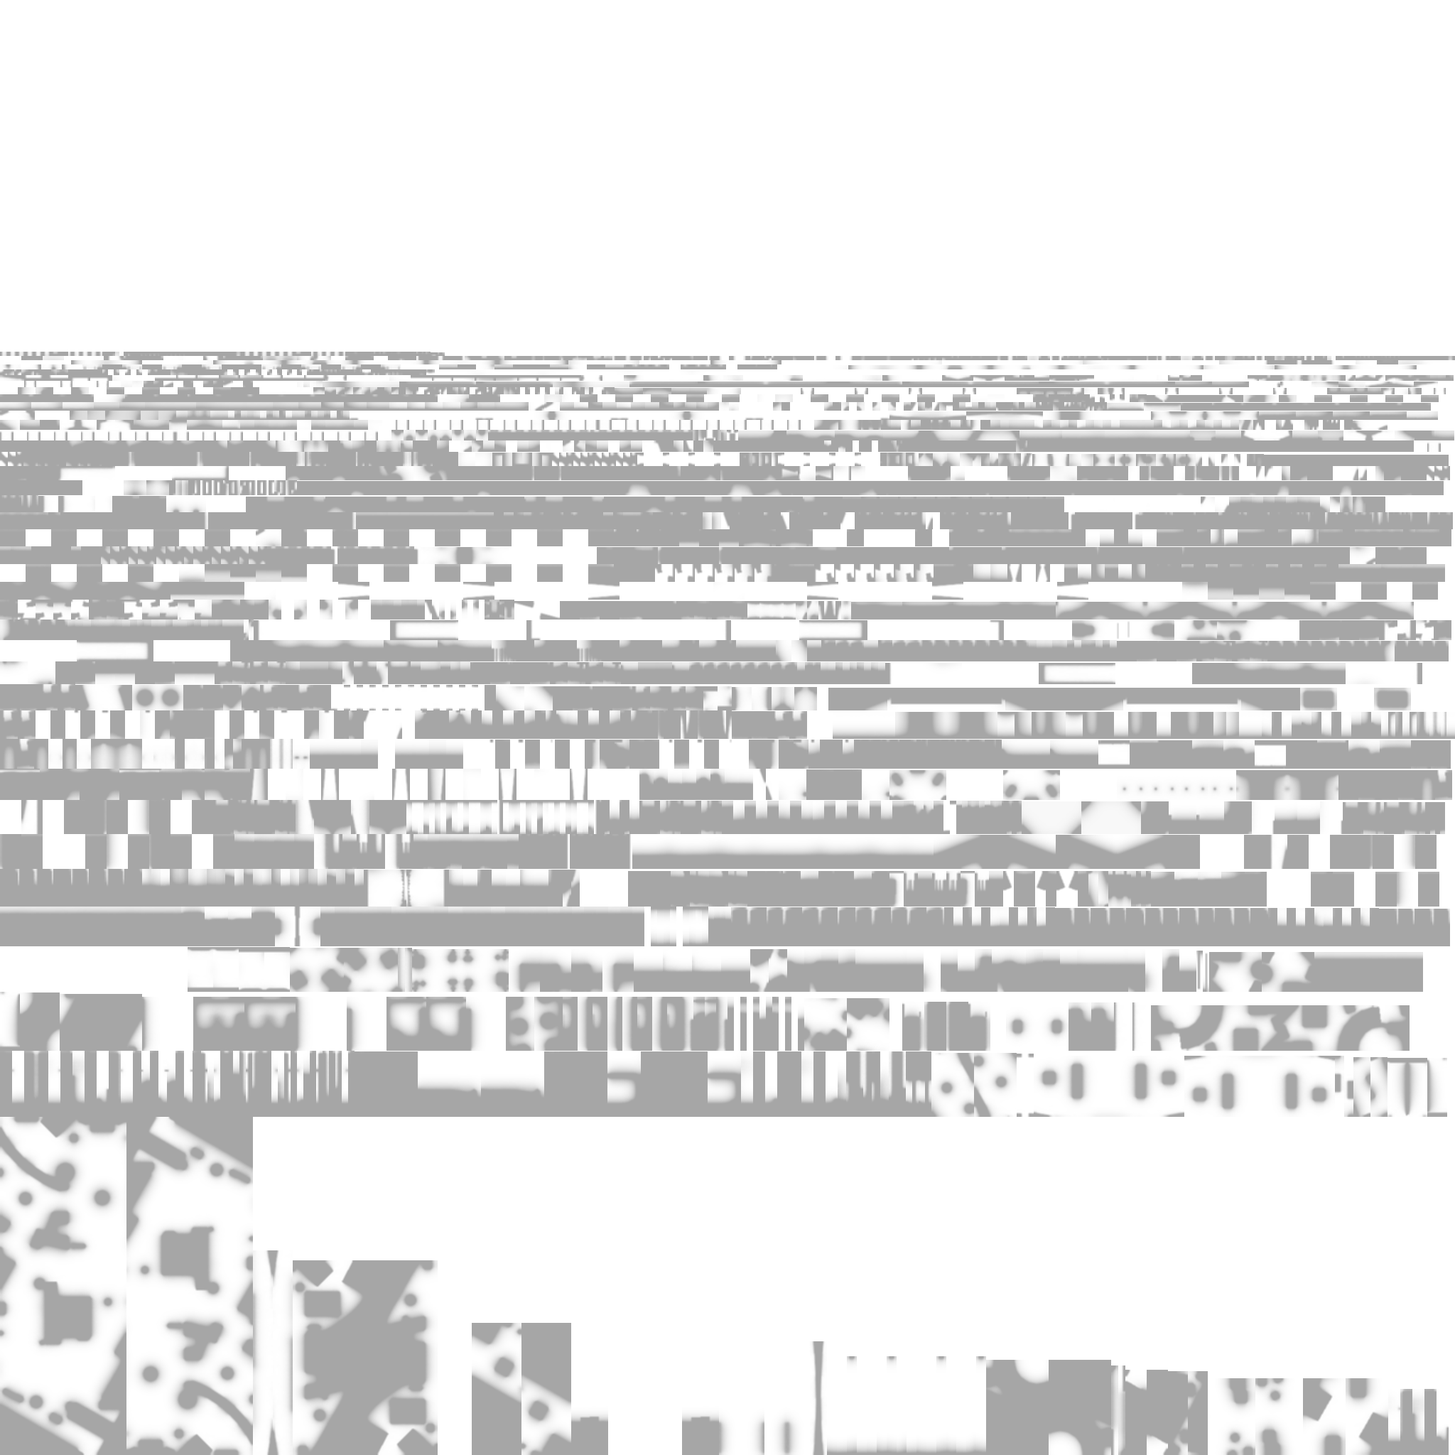
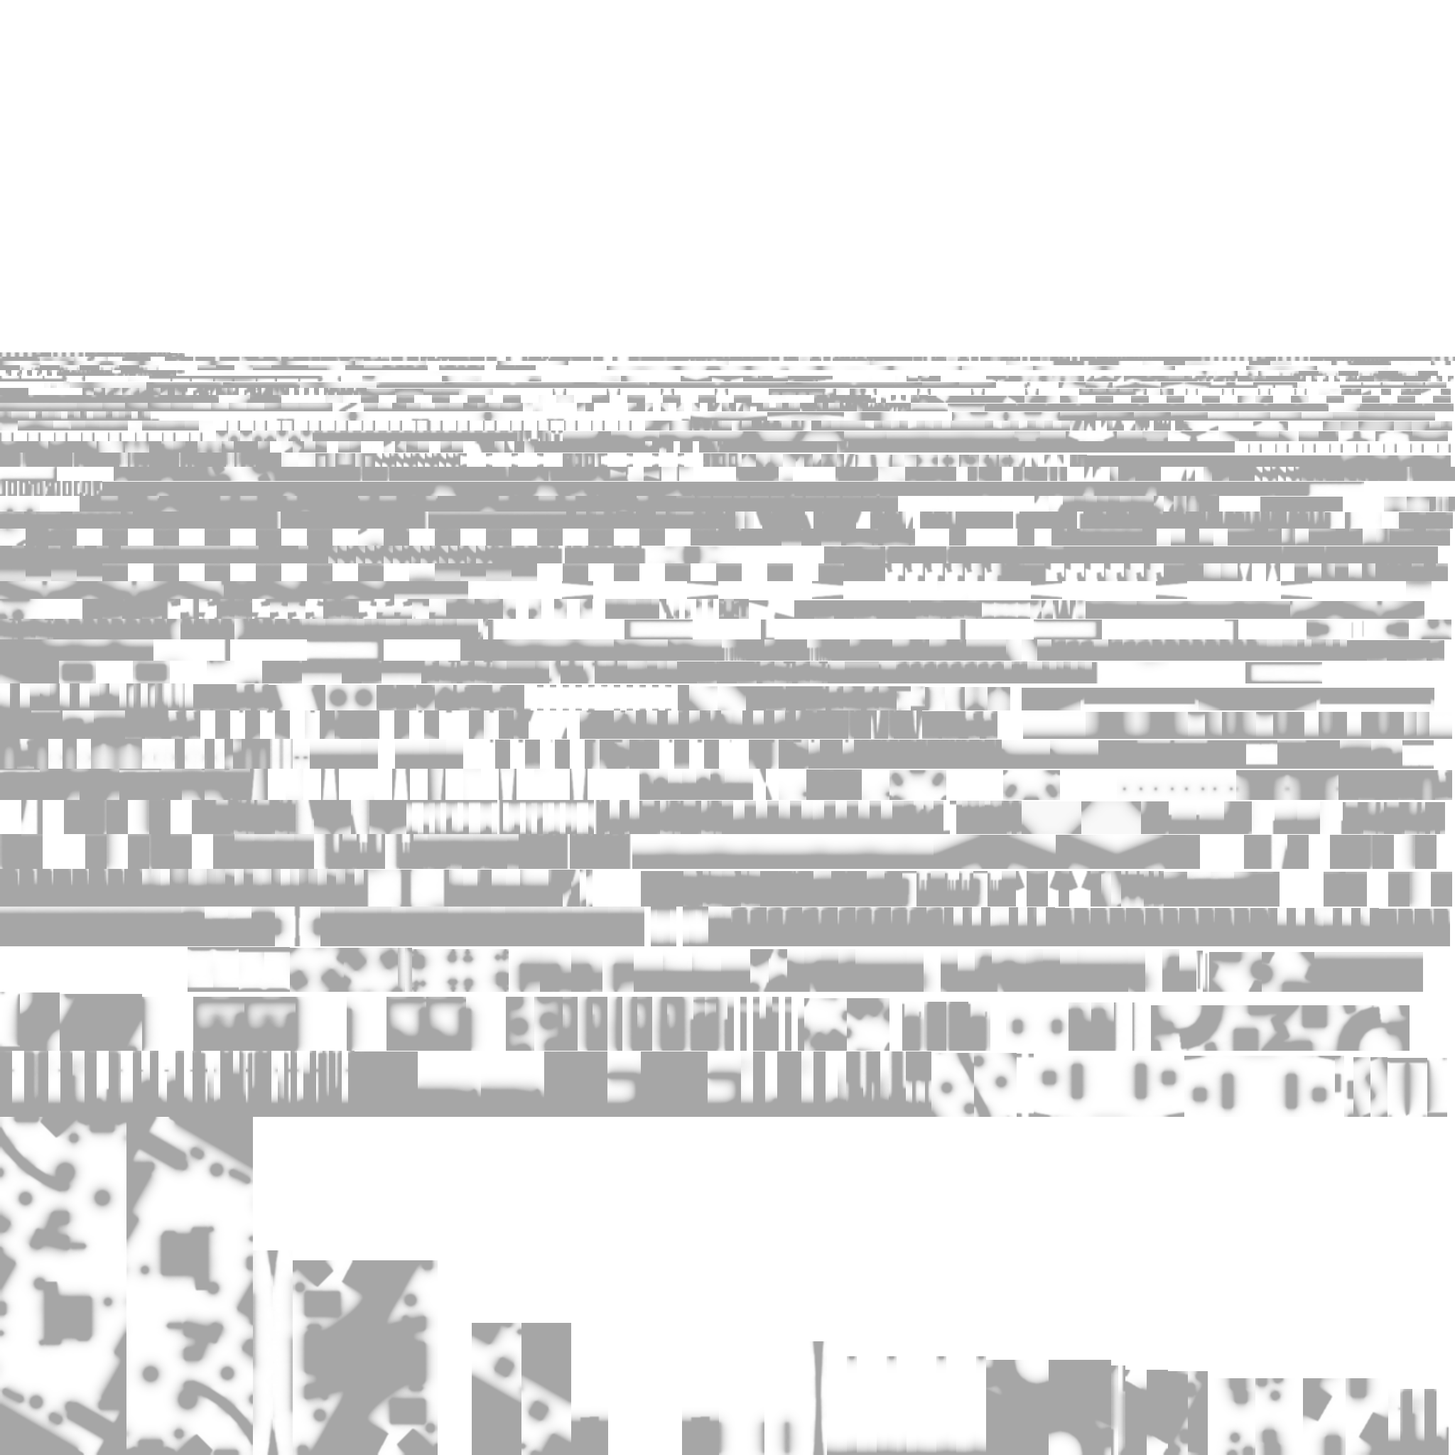
Aquarium fix round 5: the grand stair's granite nosing (the lead's call after review 5), the tile cache and the AO lightmaps re-baked
The promenade's teak cells ran out over the grand stair's top tread in a dark sawtooth against the sky (review 5's
court-promwall, stairtopB, stairfoot-up), the defect round 1 fixed on the Penguin Steps with penguin-nosing. The same block
here, both halves: radBox(−152, r 20.95 → 21.5, 5.99 wide, top 2.485), stone, paint: false. 20.95 because the cells'
corners reach r 20.96 in the stair's mouth; 5.99 wide between the balustrade and the coping, touching neither (their inner
corners stand at ±3.0 off the axis and their sides diverge from it); 8.5 cm proud of the promenade so its top is >= 8 cm
off the cells' and the ramp's 2.4 (check-maps' z-fight rule); its lip over the ramp at r 20.95 is 0.27 m, under
PLAYER.stepUp (0.35). The cells under it now merge: check-maps ok / ok, 1774 / 1766 pieces (were 1776 / 1768).
The grand stair's flank art ends under it (floorart.js: r 20.96).
- baked.js: bake-tiles.mjs (the promenade and ground layers' fingerprints changed).
- assets/lightmaps: build/bake-ao via tools/botlab/bake.cjs, locally under the SLOTS=3 lock: aquarium 5938d1d0 (1554/2048
  rows, 91.7 s), aquarium.tower d2b73cc2 (1552/2048 rows, 166.9 s).

diff --git a/src/world/stages/aquarium/baked.js b/src/world/stages/aquarium/baked.js
@@ -2,8 +2,8 @@
 export const BAKED = {
   "cove": { sig: "acc346da", r: [[-21,-18,-10.25,25.25],[-22,-21,-2.25,17.25],[-20,-16.75,25.25,30.75],[-20,-17.25,-15.75,-10.25],[-18,-17.25,10,25.25],[-18,-17.25,-10.25,-3],[-22.25,-22,1.25,13.75],[-21.5,-21,-6.75,-2.25],[-21.5,-21,17.25,21.75],[-20.5,-20,-13,-10.25],[-20.5,-20,25.25,28],[-19.75,-16.75,30.75,31],[-19.75,-17.25,-16,-15.75],[-21.75,-21.5,-4.75,-2.25],[-21.75,-21.5,17.25,19.75],[-17.25,-16.75,24,25.25],[-21.25,-21,-8.5,-6.75],[-21.25,-21,21.75,23.5],[-20.25,-20,-14.5,-13],[-20.75,-20.5,-11.75,-10.25],[-20.75,-20.5,25.25,26.75],[-20.25,-20,28,29.5]] },
   "feeding-deck": { sig: "5333c36f", r: [[-4.7,4.7,-5.9,-1.2],[-2.8,2.8,-7,-5.9],[-6.4,-4.7,-4.2,-1.2],[4.7,6.4,-4.2,-1.2],[-1.6,1.6,-7.5,-7],[-7,-6.4,-2.8,-1.2],[6.4,7,-2.8,-1.2],[-4,-2.8,-6.5,-5.9],[2.8,4,-6.5,-5.9],[-5.5,-4.7,-5.1,-4.2],[4.7,5.5,-5.1,-4.2],[-7.3,-7,-2,-1.2],[7,7.3,-2,-1.2],[-6.7,-6.4,-3.5,-2.8],[6.4,6.7,-3.5,-2.8],[-5.9,-5.5,-4.7,-4.2],[5.5,5.9,-4.7,-4.2],[-5.1,-4.7,-5.5,-5.1],[4.7,5.1,-5.5,-5.1],[-3.3,-2.8,-6.8,-6.5],[2.8,3.3,-6.8,-6.5],[-2.3,-1.6,-7.2,-7],[1.6,2.3,-7.2,-7],[-4.3,-4,-6.3,-5.9],[4,4.3,-6.3,-5.9],[-7.5,-7.3,-1.6,-1.2],[7.3,7.5,-1.6,-1.2],[-6.1,-5.9,-4.5,-4.2],[5.9,6.1,-4.5,-4.2],[-7.2,-7,-2.3,-2],[7,7.2,-2.3,-2],[-6.5,-6.4,-4,-3.5],[6.4,6.5,-4,-3.5],[-6.8,-6.7,-3.3,-2.8],[6.7,6.8,-3.3,-2.8],[-1.8,-1.6,-7.4,-7.2],[1.6,1.8,-7.4,-7.2],[-3.5,-3.3,-6.7,-6.5],[3.3,3.5,-6.7,-6.5],[-4.5,-4.3,-6.1,-5.9],[4.3,4.5,-6.1,-5.9],[-4.9,-4.7,-5.7,-5.5],[4.7,4.9,-5.7,-5.5],[-5.3,-5.1,-5.3,-5.1],[5.1,5.3,-5.3,-5.1],[-5.7,-5.5,-4.9,-4.7],[5.5,5.7,-4.9,-4.7],[-2,-1.8,-7.3,-7.2],[1.8,2,-7.3,-7.2],[-2.5,-2.3,-7.1,-7],[2.3,2.5,-7.1,-7],[-3,-2.8,-6.9,-6.8],[2.8,3,-6.9,-6.8],[-3.7,-3.5,-6.6,-6.5],[3.5,3.7,-6.6,-6.5],[-4.2,-4,-6.4,-6.3],[4,4.2,-6.4,-6.3],[-6.2,-6.1,-4.4,-4.2],[6.1,6.2,-4.4,-4.2],[-6.6,-6.5,-3.7,-3.5],[6.5,6.6,-3.7,-3.5],[-6.9,-6.8,-3,-2.8],[6.8,6.9,-3,-2.8],[-7.1,-7,-2.5,-2.3],[7,7.1,-2.5,-2.3],[-7.4,-7.3,-1.8,-1.6],[7.3,7.4,-1.8,-1.6],[-4.4,-4.3,-6.2,-6.1],[4.3,4.4,-6.2,-6.1],[-4.6,-4.5,-6,-5.9],[4.5,4.6,-6,-5.9],[-4.8,-4.7,-5.8,-5.7],[4.7,4.8,-5.8,-5.7],[-5,-4.9,-5.6,-5.5],[4.9,5,-5.6,-5.5],[-5.2,-5.1,-5.4,-5.3],[5.1,5.2,-5.4,-5.3],[-5.4,-5.3,-5.2,-5.1],[5.3,5.4,-5.2,-5.1],[-5.6,-5.5,-5,-4.9],[5.5,5.6,-5,-4.9],[-5.8,-5.7,-4.8,-4.7],[5.7,5.8,-4.8,-4.7],[-6,-5.9,-4.6,-4.5],[5.9,6,-4.6,-4.5],[-6.3,-6.2,-4.3,-4.2],[6.2,6.3,-4.3,-4.2]] },
-  "ground": { sig: "fe98d2fc", r: [[-4,17.75,-66.5,-7.5],[-16.25,-4,-40.25,-6.5],[17.75,26,-66.75,-44],[-26.75,-16.25,-16.25,0],[7.5,29.75,-7.5,0],[17.75,24.75,-18.25,-7.5],[-10.75,-4,-49.75,-40.25],[-16.25,-7.5,-6.5,0],[-19,-16.25,-33.75,-16.25],[26,29.25,-64.25,-49.75],[17.75,20.75,-44,-29.75],[-29.75,-26.75,-9.75,0],[20.75,24,-44,-38.25],[24.75,29.25,-11.5,-7.5],[17.75,22.25,-22,-18.25],[-7.25,-4,-54.25,-49.75],[-13.5,-10.75,-45,-40.25],[-21,-19,-30.25,-26],[24.75,27,-14.75,-11.5],[-3.5,4.5,-67.25,-66.5],[17.75,18.75,-29.75,-25],[-5.5,-4,-57.25,-54.25],[26,28,-49.75,-47.5],[-17.5,-16.25,-36.5,-33.75],[-12,-10.75,-47.5,-45],[-14.75,-13.5,-42.75,-40.25],[17.75,19.5,-23.75,-22],[-7.5,-5.75,-6.5,-4.75],[-8.5,-7.25,-52,-49.75],[24.75,25.75,-16.75,-14.75],[29.75,30.25,-5.25,-1.25],[-20.25,-19,-31.75,-30.25],[-22.25,-21,-28.25,-26.75],[22.25,23.5,-19.75,-18.25],[26,27,-47.5,-45.75],[18.75,19.75,-29.75,-28],[24,25.25,-44,-42.75],[3.25,5.25,-7.5,-6.75],[6.5,7.5,-5.25,-3.75],[-6.25,-5.5,-56,-54.25],[27,27.75,-13.25,-11.5],[-7.5,-6.75,-4.75,-3.25],[-18.5,-17.5,-34.75,-33.75],[-4.75,-4,-58.5,-57.25],[-12.75,-12,-46.25,-45],[-15.5,-14.75,-41.5,-40.25],[-9,-8.5,-51.25,-49.75],[28,28.75,-49.75,-48.75],[-11.5,-10.75,-48.5,-47.5],[-14.25,-13.5,-43.75,-42.75],[19.5,20.25,-23,-22],[-4,-2.5,-7.5,-7],[-7.75,-7.25,-53.25,-52],[-16.75,-16.25,-37.75,-36.5],[-19.5,-19,-33,-31.75],[-21.5,-21,-29.5,-28.25],[25.75,26.25,-16,-14.75],[7,7.5,-3.75,-2.5],[-19.75,-19,-26,-25.25],[17.75,18.5,-24.5,-23.75],[19.75,20.25,-29.75,-28.75],[18.75,19.25,-28,-27],[23.5,24,-19.25,-18.25],[29.75,30.25,-7,-6],[-6.75,-6.25,-55,-54.25],[29.25,29.75,-51.25,-50.5],[-10.5,-9,-50,-49.75],[27,27.5,-47.5,-46.75],[26,26.5,-45.75,-45],[-18,-17.5,-35.5,-34.75],[22.25,22.75,-20.5,-19.75],[24.75,25.25,-17.5,-16.75],[-16.5,-16.25,-39.75,-38.5],[0.75,1.25,-67.75,-67.25],[-4.5,-4,-59,-58.5],[-8.25,-7.75,-52.5,-52],[-12.5,-12,-46.75,-46.25],[-15.25,-14.75,-42,-41.5],[-20.5,-20.25,-31.25,-30.25],[-21.5,-21,-26.75,-26.25],[20.25,20.75,-22.5,-22],[27,27.25,-14.25,-13.25],[27.75,28,-12.5,-11.5],[-5,-4.75,-58,-57.25],[-5.75,-5.5,-56.75,-56],[-9.25,-9,-50.75,-50],[-11,-10.75,-49.25,-48.5],[28,28.25,-48.75,-48],[-13,-12.75,-45.75,-45],[-13.75,-13.5,-44.5,-43.75],[-15.75,-15.5,-41,-40.25],[-17,-16.75,-37.25,-36.5],[-19.75,-19.5,-32.5,-31.75],[-21.75,-21.5,-29,-28.25],[-22.5,-22.25,-27.75,-27],[-20.5,-19.75,-26,-25.75],[18.5,19.25,-24,-23.75],[26.25,26.5,-15.5,-14.75],[-4,-3.25,-7,-6.75],[3.75,4.5,-6.75,-6.5],[29.75,30,-6,-5.25],[-6.5,-6.25,-55.5,-55],[-7.5,-7.25,-53.75,-53.25],[28.75,29,-49.75,-49.25],[-11.75,-11.5,-48,-47.5],[27,27.25,-46.75,-46.25],[26,26.25,-45,-44.5],[-14.5,-14.25,-43.25,-42.75],[-16.75,-16.5,-39.25,-38.75],[-16.5,-16.25,-38.25,-37.75],[-17.75,-17.5,-36,-35.5],[-18.75,-18.5,-34.25,-33.75],[-20.75,-20.5,-30.75,-30.25],[-21.25,-21,-30,-29.5],[20.25,20.5,-29.75,-29.25],[19.25,19.5,-28,-27.5],[17.75,18.25,-24.75,-24.5],[19.5,19.75,-23.5,-23],[20.75,21.25,-22.25,-22],[22.75,23,-20.25,-19.75],[24,24.25,-18.75,-18.25],[27.25,27.5,-13.75,-13.25],[28,28.25,-12,-11.5],[-2.5,-2,-7.5,-7.25],[2,2.5,-7.5,-7.25],[-6.75,-6.5,-4.25,-3.75],[6.75,7,-3.75,-3.25],[1.25,1.5,-67.5,-67.25],[-5.25,-5,-57.5,-57.25],[-6,-5.75,-56.25,-56],[-7,-6.75,-54.5,-54.25],[-8,-7.75,-52.75,-52.5],[-8.75,-8.5,-51.5,-51.25],[29.25,29.5,-50.5,-50.25],[-9.5,-9.25,-50.25,-50],[-11.25,-11,-48.75,-48.5],[28.25,28.5,-48.75,-48.5],[27.5,27.75,-47.5,-47.25],[-12.25,-12,-47,-46.75],[26.5,26.75,-45.75,-45.5],[-13.25,-13,-45.25,-45],[-14,-13.75,-44,-43.75],[-15,-14.75,-42.25,-42],[-16,-15.75,-40.5,-40.25],[-17.25,-17,-36.75,-36.5],[-18.25,-18,-35,-34.75],[-19.25,-19,-33.25,-33],[-20,-19.75,-32,-31.75],[-22,-21.75,-28.5,-28.25],[-22.75,-22.5,-27.25,-27],[-21.75,-21.5,-26.75,-26.5],[-20,-19.75,-25.75,-25.5],[-19.25,-19,-25.25,-25],[18.5,18.75,-24.25,-24],[19.75,20,-23.25,-23],[20.25,20.5,-22.75,-22.5],[22.25,22.5,-20.75,-20.5],[23,23.25,-20,-19.75],[23.5,23.75,-19.5,-19.25],[24.25,24.5,-18.5,-18.25],[24.75,25,-17.75,-17.5],[25.25,25.5,-17,-16.75],[25.75,26,-16.25,-16],[26.5,26.75,-15,-14.75],[-4,-3.75,-6.75,-6.5]] },
-  "promenade": { sig: "2e858958", r: [[-21.75,-12.75,-24,-16.75],[-26.5,-19.5,-16.75,-8],[-12.75,-10.25,-28.5,-18.5],[-29.25,-26.5,-11.25,-4.25],[-19.5,-16.75,-16.75,-12.75],[-16.75,-12.75,-26.5,-24],[-24.5,-21.75,-19.5,-16.75],[-10.25,-9,-25,-19.25],[-30.25,-29.25,-8,-2],[-26.5,-25,-8,-4.5],[-28,-26.5,-14,-11.25],[-16.75,-14.75,-16.75,-15],[-19.5,-18.25,-12.75,-10.5],[-15,-12.75,-27.5,-26.5],[-18.25,-16.75,-25.5,-24],[-23.25,-21.75,-21,-19.5],[-24,-19.75,-8,-7.5],[-25.5,-24.5,-18.25,-16.75],[-27.25,-26.5,-15.5,-14],[-21.5,-20,-7.5,-6.75],[-29.25,-27.75,-4.25,-3.5],[-12.75,-11.75,-18.5,-17.5],[-16.75,-15.75,-15,-14],[-28.75,-28,-12.5,-11.25],[-29.75,-29.25,-9.75,-8],[-10.25,-9.75,-26.5,-25],[-19.25,-18.25,-24.75,-24],[-14.75,-13.75,-16.75,-16],[-18.25,-17.5,-12.75,-11.75],[-30.75,-30.25,-6,-4.5],[-14,-12.75,-28,-27.5],[-19.5,-19,-10.5,-9.25],[-22.5,-21.75,-21.75,-21],[-29.25,-28.5,-3.5,-2.75],[-11.75,-10.75,-29,-28.5],[-23.75,-23.25,-20.5,-19.5],[-15.5,-15,-27.25,-26.5],[-17.5,-16.75,-26,-25.5],[-9.75,-9.25,-25.75,-25],[-11.75,-11,-18.5,-18],[-26,-25.5,-17.5,-16.75],[-10.25,-10,-27.75,-26.5],[-22.75,-21.5,-7.5,-7.25],[-30.5,-30.25,-7.25,-6],[-10.25,-9.25,-19.25,-19],[-24.75,-24.5,-19.25,-18.25],[-14.75,-14.25,-16,-15.5],[-15.75,-15.25,-15,-14.5],[-27.5,-27.25,-15,-14],[-16.75,-16.25,-14,-13.5],[-28.25,-28,-13.5,-12.5],[-30,-29.75,-9,-8],[-25,-24,-8,-7.75],[-20.75,-20.25,-6.75,-6.25],[-11.25,-10.5,-29.25,-29],[-12.5,-11.75,-28.75,-28.5],[-13.5,-12.75,-28.25,-28],[-16.25,-15.5,-26.75,-26.5],[-18.25,-18,-11.75,-11],[-29.5,-29.25,-10.5,-9.75],[-19,-18.75,-10.5,-9.75],[-19.5,-19.25,-9.25,-8.5],[-27.75,-27,-4.25,-4],[-14.5,-14,-27.75,-27.5],[-18.5,-18.25,-25.25,-24.75],[-19.5,-19.25,-24.5,-24],[-22,-21.75,-22.25,-21.75],[-22.75,-22.5,-21.5,-21],[-10.25,-9.75,-19,-18.75],[-11,-10.5,-18.5,-18.25],[-12.75,-12.25,-17.5,-17.25],[-13.75,-13.25,-16.75,-16.5],[-27.75,-27.5,-14.5,-14],[-28.5,-28.25,-13,-12.5],[-17.5,-17,-12.75,-12.5],[-29,-28.75,-11.75,-11.25],[-22,-21.5,-7.25,-7],[-29.25,-28.75,-2.75,-2.5],[-13,-12.75,-28.5,-28.25],[-15.75,-15.5,-27,-26.75],[-17,-16.75,-26.25,-26],[-18.75,-18.5,-25,-24.75],[-19.75,-19.5,-24.25,-24],[-22.25,-22,-22,-21.75],[-23,-22.75,-21.25,-21],[-23.5,-23.25,-20.75,-20.5],[-11.75,-11.5,-18,-17.75],[-12.75,-12.5,-17.25,-17],[-13.75,-13.5,-16.5,-16.25],[-14.25,-14,-16,-15.75],[-14.75,-14.5,-15.5,-15.25],[-15.25,-15,-15,-14.75],[-15.75,-15.5,-14.5,-14.25],[-17.5,-17.25,-12.5,-12.25],[-18,-17.75,-11.75,-11.5],[-18.75,-18.5,-10.5,-10.25],[-21,-20.75,-6.75,-6.5],[-27.75,-27.5,-4,-3.75],[-28.5,-28.25,-3.5,-3.25]] },
+  "ground": { sig: "3aa7e715", r: [[-4,17.75,-66.5,-7.5],[-16.25,-4,-40.25,-6.5],[17.75,26,-66.75,-44],[-26.75,-16.25,-16.25,0],[7.5,29.75,-7.5,0],[17.75,24.75,-18.25,-7.5],[-10.75,-4,-49.75,-40.25],[-16.25,-7.5,-6.5,0],[-19,-16.25,-33.75,-16.25],[26,29.25,-64.25,-49.75],[17.75,20.75,-44,-29.75],[-29.75,-26.75,-9.75,0],[20.75,24,-44,-38.25],[24.75,29.25,-11.5,-7.5],[17.75,22.25,-22,-18.25],[-7.25,-4,-54.25,-49.75],[-13.5,-10.75,-45,-40.25],[-21,-19,-30.25,-26],[24.75,27,-14.75,-11.5],[-3.5,4.5,-67.25,-66.5],[17.75,18.75,-29.75,-25],[-5.5,-4,-57.25,-54.25],[26,28,-49.75,-47.5],[-17.5,-16.25,-36.5,-33.75],[-12,-10.75,-47.5,-45],[-14.75,-13.5,-42.75,-40.25],[17.75,19.5,-23.75,-22],[-7.5,-5.75,-6.5,-4.75],[-8.5,-7.25,-52,-49.75],[24.75,25.75,-16.75,-14.75],[29.75,30.25,-5.25,-1.25],[-20.25,-19,-31.75,-30.25],[-22.25,-21,-28.25,-26.75],[22.25,23.5,-19.75,-18.25],[26,27,-47.5,-45.75],[18.75,19.75,-29.75,-28],[24,25.25,-44,-42.75],[3.25,5.25,-7.5,-6.75],[6.5,7.5,-5.25,-3.75],[-6.25,-5.5,-56,-54.25],[27,27.75,-13.25,-11.5],[-7.5,-6.75,-4.75,-3.25],[-18.5,-17.5,-34.75,-33.75],[-4.75,-4,-58.5,-57.25],[-12.75,-12,-46.25,-45],[-15.5,-14.75,-41.5,-40.25],[-9,-8.5,-51.25,-49.75],[28,28.75,-49.75,-48.75],[-11.5,-10.75,-48.5,-47.5],[-14.25,-13.5,-43.75,-42.75],[19.5,20.25,-23,-22],[-4,-2.5,-7.5,-7],[-7.75,-7.25,-53.25,-52],[-16.75,-16.25,-37.75,-36.5],[-19.5,-19,-33,-31.75],[-21.5,-21,-29.5,-28.25],[25.75,26.25,-16,-14.75],[7,7.5,-3.75,-2.5],[-19.75,-19,-26,-25.25],[17.75,18.5,-24.5,-23.75],[19.75,20.25,-29.75,-28.75],[18.75,19.25,-28,-27],[23.5,24,-19.25,-18.25],[29.75,30.25,-7,-6],[-6.75,-6.25,-55,-54.25],[29.25,29.75,-51.25,-50.5],[-10.5,-9,-50,-49.75],[27,27.5,-47.5,-46.75],[26,26.5,-45.75,-45],[-18,-17.5,-35.5,-34.75],[22.25,22.75,-20.5,-19.75],[24.75,25.25,-17.5,-16.75],[-16.5,-16.25,-39.75,-38.5],[0.75,1.25,-67.75,-67.25],[-4.5,-4,-59,-58.5],[-8.25,-7.75,-52.5,-52],[-12.5,-12,-46.75,-46.25],[-15.25,-14.75,-42,-41.5],[-20.5,-20.25,-31.25,-30.25],[-21.5,-21,-26.75,-26.25],[20.25,20.75,-22.5,-22],[27,27.25,-14.25,-13.25],[27.75,28,-12.5,-11.5],[-5,-4.75,-58,-57.25],[-5.75,-5.5,-56.75,-56],[-9.25,-9,-50.75,-50],[-11,-10.75,-49.25,-48.5],[28,28.25,-48.75,-48],[-13,-12.75,-45.75,-45],[-13.75,-13.5,-44.5,-43.75],[-15.75,-15.5,-41,-40.25],[-17,-16.75,-37.25,-36.5],[-19.75,-19.5,-32.5,-31.75],[-21.75,-21.5,-29,-28.25],[-22.5,-22.25,-27.75,-27],[-20.5,-19.75,-26,-25.75],[18.5,19.25,-24,-23.75],[26.25,26.5,-15.5,-14.75],[-4,-3.25,-7,-6.75],[3.75,4.5,-6.75,-6.5],[29.75,30,-6,-5.25],[-6.5,-6.25,-55.5,-55],[-7.5,-7.25,-53.75,-53.25],[28.75,29,-49.75,-49.25],[-11.75,-11.5,-48,-47.5],[27,27.25,-46.75,-46.25],[26,26.25,-45,-44.5],[-14.5,-14.25,-43.25,-42.75],[-16.75,-16.5,-39.25,-38.75],[-16.5,-16.25,-38.25,-37.75],[-17.75,-17.5,-36,-35.5],[-18.75,-18.5,-34.25,-33.75],[-20.75,-20.5,-30.75,-30.25],[-21.25,-21,-30,-29.5],[20.25,20.5,-29.75,-29.25],[19.25,19.5,-28,-27.5],[17.75,18.25,-24.75,-24.5],[19.5,19.75,-23.5,-23],[20.75,21.25,-22.25,-22],[22.75,23,-20.25,-19.75],[24,24.25,-18.75,-18.25],[27.25,27.5,-13.75,-13.25],[28,28.25,-12,-11.5],[-2.5,-2,-7.5,-7.25],[2,2.5,-7.5,-7.25],[-6.75,-6.5,-4.25,-3.75],[6.75,7,-3.75,-3.25],[1.25,1.5,-67.5,-67.25],[-5.25,-5,-57.5,-57.25],[-6,-5.75,-56.25,-56],[-7,-6.75,-54.5,-54.25],[-8,-7.75,-52.75,-52.5],[-8.75,-8.5,-51.5,-51.25],[29.25,29.5,-50.5,-50.25],[-9.5,-9.25,-50.25,-50],[-11.25,-11,-48.75,-48.5],[28.25,28.5,-48.75,-48.5],[27.5,27.75,-47.5,-47.25],[-12.25,-12,-47,-46.75],[26.5,26.75,-45.75,-45.5],[-13.25,-13,-45.25,-45],[-14,-13.75,-44,-43.75],[-15,-14.75,-42.25,-42],[-16,-15.75,-40.5,-40.25],[-17.25,-17,-36.75,-36.5],[-18.25,-18,-35,-34.75],[-19.25,-19,-33.25,-33],[-20,-19.75,-32,-31.75],[-22,-21.75,-28.5,-28.25],[-22.75,-22.5,-27.25,-27],[-21.75,-21.5,-26.75,-26.5],[-20,-19.75,-25.75,-25.5],[-19.25,-19,-25.25,-25],[18.5,18.75,-24.25,-24],[19.75,20,-23.25,-23],[20.25,20.5,-22.75,-22.5],[22.25,22.5,-20.75,-20.5],[23,23.25,-20,-19.75],[23.5,23.75,-19.5,-19.25],[24.25,24.5,-18.5,-18.25],[24.75,25,-17.75,-17.5],[25.25,25.5,-17,-16.75],[25.75,26,-16.25,-16],[26.5,26.75,-15,-14.75],[-4,-3.75,-6.75,-6.5]] },
+  "promenade": { sig: "2c771191", r: [[-21.75,-12.75,-24,-16.75],[-26.5,-19.5,-16.75,-8],[-12.75,-10.25,-28.5,-18.5],[-29.25,-26.5,-11.25,-4.25],[-19.5,-16.75,-16.75,-12.75],[-16.75,-12.75,-26.5,-24],[-24.5,-21.75,-19.5,-16.75],[-10.25,-9,-25,-19.25],[-30.25,-29.25,-8,-2],[-26.5,-25,-8,-4.5],[-28,-26.5,-14,-11.25],[-16.75,-14.75,-16.75,-15],[-19.5,-18.25,-12.75,-10.5],[-15,-12.75,-27.5,-26.5],[-18.25,-16.75,-25.5,-24],[-23.25,-21.75,-21,-19.5],[-24,-19.75,-8,-7.5],[-25.5,-24.5,-18.25,-16.75],[-27.25,-26.5,-15.5,-14],[-21.5,-20,-7.5,-6.75],[-29.25,-27.75,-4.25,-3.5],[-12.75,-11.75,-18.5,-17.5],[-16.75,-15.75,-15,-14],[-28.75,-28,-12.5,-11.25],[-29.75,-29.25,-9.75,-8],[-10.25,-9.75,-26.5,-25],[-19.25,-18.25,-24.75,-24],[-14.75,-13.75,-16.75,-16],[-18.25,-17.5,-12.75,-11.75],[-30.75,-30.25,-6,-4.5],[-14,-12.75,-28,-27.5],[-19.5,-19,-10.5,-9.25],[-22.5,-21.75,-21.75,-21],[-29.25,-28.5,-3.5,-2.75],[-11.75,-10.75,-29,-28.5],[-23.75,-23.25,-20.5,-19.5],[-15.5,-15,-27.25,-26.5],[-17.5,-16.75,-26,-25.5],[-9.75,-9.25,-25.75,-25],[-11.75,-11,-18.5,-18],[-26,-25.5,-17.5,-16.75],[-10.25,-10,-27.75,-26.5],[-22.75,-21.5,-7.5,-7.25],[-30.5,-30.25,-7.25,-6],[-10.25,-9.25,-19.25,-19],[-24.75,-24.5,-19.25,-18.25],[-14.75,-14.25,-16,-15.5],[-15.75,-15.25,-15,-14.5],[-27.5,-27.25,-15,-14],[-16.75,-16.25,-14,-13.5],[-28.25,-28,-13.5,-12.5],[-19,-18.5,-10.5,-10],[-30,-29.75,-9,-8],[-25,-24,-8,-7.75],[-20.75,-20.25,-6.75,-6.25],[-11.25,-10.5,-29.25,-29],[-12.5,-11.75,-28.75,-28.5],[-13.5,-12.75,-28.25,-28],[-16.25,-15.5,-26.75,-26.5],[-18.25,-18,-11.75,-11],[-29.5,-29.25,-10.5,-9.75],[-19.5,-19.25,-9.25,-8.5],[-27.75,-27,-4.25,-4],[-14.5,-14,-27.75,-27.5],[-18.5,-18.25,-25.25,-24.75],[-19.5,-19.25,-24.5,-24],[-22,-21.75,-22.25,-21.75],[-22.75,-22.5,-21.5,-21],[-10.25,-9.75,-19,-18.75],[-11,-10.5,-18.5,-18.25],[-12.75,-12.25,-17.5,-17.25],[-13.75,-13.25,-16.75,-16.5],[-27.75,-27.5,-14.5,-14],[-28.5,-28.25,-13,-12.5],[-29,-28.75,-11.75,-11.25],[-22,-21.5,-7.25,-7],[-29.25,-28.75,-2.75,-2.5],[-13,-12.75,-28.5,-28.25],[-15.75,-15.5,-27,-26.75],[-17,-16.75,-26.25,-26],[-18.75,-18.5,-25,-24.75],[-19.75,-19.5,-24.25,-24],[-22.25,-22,-22,-21.75],[-23,-22.75,-21.25,-21],[-23.5,-23.25,-20.75,-20.5],[-11.75,-11.5,-18,-17.75],[-12.75,-12.5,-17.25,-17],[-13.75,-13.5,-16.5,-16.25],[-14.25,-14,-16,-15.75],[-14.75,-14.5,-15.5,-15.25],[-15.25,-15,-15,-14.75],[-15.75,-15.5,-14.5,-14.25],[-17.5,-17.25,-12.5,-12.25],[-19,-18.75,-10,-9.75],[-21,-20.75,-6.75,-6.5],[-27.75,-27.5,-4,-3.75],[-28.5,-28.25,-3.5,-3.25]] },
   "pylon-1-high": { sig: "99b6b084", r: [[-7.75,-6,-26,-21],[-10,-6,-29.5,-28.25],[-9.5,-8.5,-28.25,-25.75],[-8.5,-7.75,-26,-23],[-7.25,-6,-21,-19.5],[-8.25,-6,-30,-29.5],[-9,-8.5,-25.75,-24.5],[-10,-9.5,-28.25,-27.25],[-8.25,-7.75,-23,-22.25],[-7.25,-6,-30.25,-30],[-9.25,-8.25,-29.75,-29.5],[-7,-6,-19.5,-19.25],[-6.25,-6,-30.5,-30.25]] },
   "pylon-1-low": { sig: "8850a19d", r: [[-7.75,-6,-26,-21],[-10,-6,-29.5,-28.25],[-9.5,-8.5,-28.25,-25.75],[-8.5,-7.75,-26,-23],[-7.25,-6,-21,-19.5],[-8.25,-6,-30,-29.5],[-9,-8.5,-25.75,-24.5],[-10,-9.5,-28.25,-27.25],[-8.25,-7.75,-23,-22.25],[-7.25,-6,-30.25,-30],[-9.25,-8.25,-29.75,-29.5],[-7,-6,-19.5,-19.25],[-6.25,-6,-30.5,-30.25]] },
   "pylon1-high": { sig: "bde0014f", r: [[6,7.75,-26,-21.5],[6,10,-29.5,-28.25],[8.5,9.5,-28.25,-26.25],[6,7,-21.5,-19.5],[7.75,8.5,-26,-23.5],[6,8.25,-30,-29.5],[8.5,9,-26.25,-25],[7,7.5,-21.5,-20.75],[6,7.25,-30.25,-30],[9.5,9.75,-28.25,-27],[7.75,8,-23.5,-22.25],[8.25,9.25,-29.75,-29.5],[8.5,8.75,-25,-24.25],[6,6.75,-19.5,-19.25],[6,6.25,-30.5,-30.25],[10.25,10.5,-29.25,-29]] },

diff --git a/src/world/stages/aquarium/floorart.js b/src/world/stages/aquarium/floorart.js
@@ -810,8 +810,8 @@ const R5_BEVELS = `if (y > 0.3 && y < 2.45) {
 const ST = 'vec3(0.70, 0.64, 0.52)';       // (the planters' cast cream stone)
 const VSTEP = [[-22.5, -0.79, 1.3], [-67.5, -0.79, 0.79], [-112.5, -0.79, 0.79], [-157.5, -1.3, 0.79]];   // the viewing steps: [bearing, t0, t1], d 7.5 → 9.0, top 0.4
 const dirS = (a) => `vec2(${f4(Math.cos((a * Math.PI) / 180))}, ${f4(Math.sin((a * Math.PI) / 180))})`;
-const ramp = (a, r0, y0, r1, y1, hw, yb, key, port) => {   // a stair's flank: radial ramp on bearing a, low end r0 (y0) → high end r1 (y1)
-  const run = Math.abs(r1 - r0), cosA = run / Math.hypot(run, y1 - y0), lo = Math.min(r0, r1), hi = Math.max(r0, r1);
+const ramp = (a, r0, y0, r1, y1, hw, yb, key, port, cut) => {   // a stair's flank: radial ramp on bearing a, low end r0 (y0) → high end r1 (y1)
+  const run = Math.abs(r1 - r0), cosA = run / Math.hypot(run, y1 - y0), lo = Math.min(r0, r1), hi = cut ?? Math.max(r0, r1);
   return `{ // ${key}
         vec2 ax = ${dirS(a)}, pr = vec2(-ax.y, ax.x);
         float tr = dot(q, ax), l = dot(q, pr);
@@ -828,7 +828,7 @@ const R5B_FACES = `{
       float sg = vWPos.z > 0.0 ? -1.0 : 1.0, t5, hl5, r5r = 0.0, r5m = 0.0;
       vec2 td5;
       bool r5 = false;
-      ${ramp(-152, 15.6, 0, 21.4, 2.4, 3.0, 0.0, 'the grand stair (radRamp(−152, r 15.6 → 21.4, 0 → 2.4, 6 wide)): a porthole into the Jelly Gallery near its head', [20.3, 0.95, 0.26])}
+      ${ramp(-152, 15.6, 0, 21.4, 2.4, 3.0, 0.0, 'the grand stair (radRamp(−152, r 15.6 → 21.4, 0 → 2.4, 6 wide)): a porthole into the Jelly Gallery near its head (its flanks end under the nosing at r 20.95)', [20.3, 0.95, 0.26], 20.96)}
       ${ramp(-120, 34.6, 1.2, 31.0, 2.4, 2.5, 1.2, 'the Penguin Steps (radRamp(−120, r 34.6 → 31.0, 1.2 → 2.4, 5 wide)) over the rock terrace')}
       // the Ticket Hall's stair (x 8 … 10, z −36.2 → −39, 0 → 1.2)
       if (!r5 && abs(abs(q.x - 9.0) - 1.0) < 0.04 && abs(nq.x) > 0.95 && q.y < -36.1 && q.y > -39.0 && y < 1.25) {

diff --git a/src/world/stages/aquarium/layout.js b/src/world/stages/aquarium/layout.js
@@ -293,6 +293,13 @@ PROM.push(radRamp(-120, 34.6, 1.2, 31.0, PR.y, 5.0, stair({ tag: 'penguin-steps'
 // tread in a zigzag (the Arch Line's S. Promenade exit shot; LEAD-REVIEW art round 1) — under it they are hidden
 // (10 cm, bearing −124.9 … −115.65: under the 2.6 coping block at its west end, short of the 2.5 one at its east end)
 PROM.push(radBox(-120.275, 30.7, 31.2, 4.99, FL, 2.5, stone({ tag: 'penguin-nosing', paint: false })));
+// the grand stair's granite nosing (fix round 5, the lead's call after review 5): the promenade's teak cells ran out over the
+// stair's top tread in a sawtooth against the sky (court-promwall, stairtopB, stairfoot-up), the defect round 1 fixed on the
+// Penguin Steps the same way — across the stair's mouth from r 20.95 (the cells' corners reach 20.96 there) to 21.5,
+// 5.99 wide (between the balustrade and the coping, touching neither: their inner corners stand at ±3.0 and their sides
+// diverge from the stair's axis), 8.5 cm proud of the promenade (2.485: ≥ 8 cm off the cells and the ramp at 2.4; the
+// 0.27 m lip over the ramp at r 20.95 is under PLAYER.stepUp, 0.35)
+PROM.push(radBox(-152, 20.95, 21.5, 5.99, FL, 2.485, stone({ tag: 'stair-nosing', paint: false })));
 // the sea rail (r 31.0 → 31.4; 1.0 tall, on the telescope bay 4.0), cut for the steps and the deep stop
 for (const [a0, a1, y0, n] of [[-171, -151, PR.y, 5], [-151, -139, 3.0, 3], [-139, -134.3, PR.y, 1], [-129.7, -124.6, PR.y, 1], [-115.4, -110.5, PR.y, 1]]) {
   PROM.push(...arcBandIn(C0, 31.0, 31.4, a0, a1, n, y0, y0 + 1.0, railO()));
